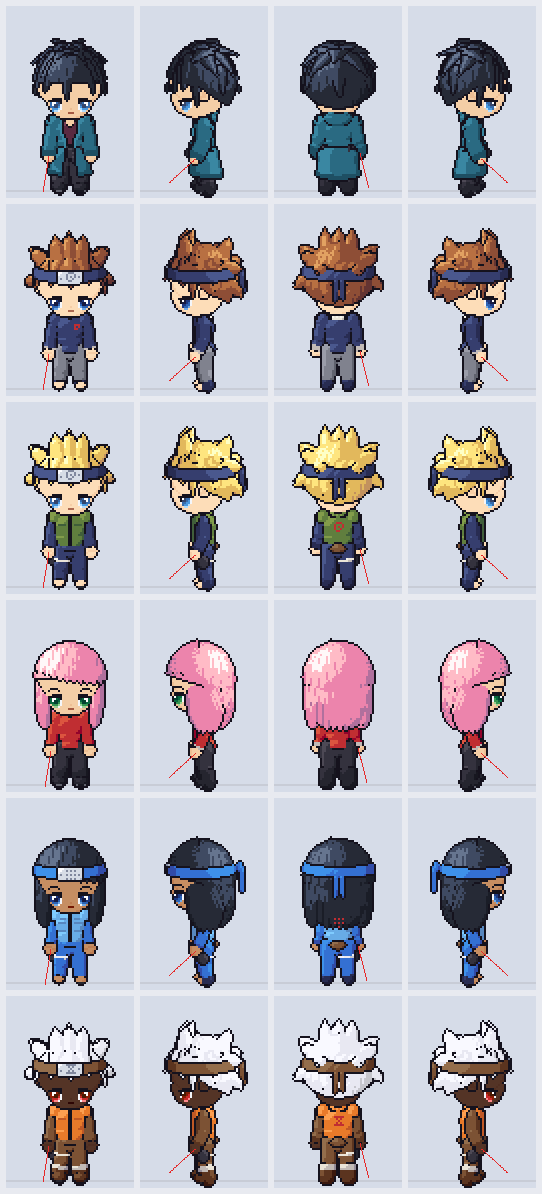
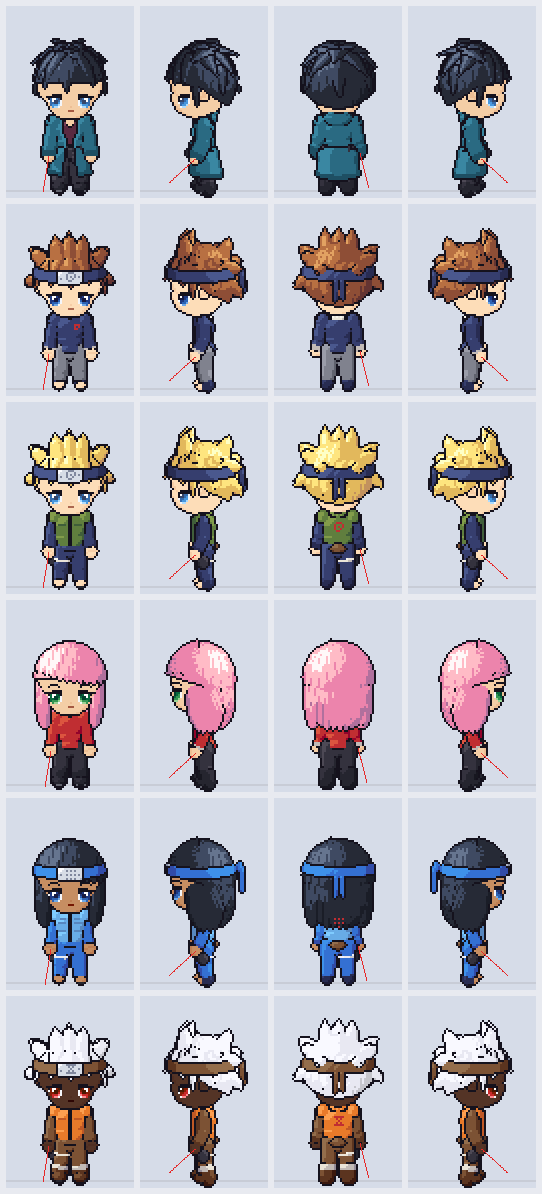
Boneco: olhos mais altos, franja curta e casaco de uma peça só nas costas
- Olhos, nariz e boca sobem para o meio do rosto (mais baixo parecia caído).
- Pontas da franja encurtadas para não cobrir os olhos.
- Casaco sem a costura no meio das costas: uma peça só, como a capa.

Claude-Session: https://claude.ai/code/session_013EwgXBRvGRJCaiRUvzAoiD

diff --git a/public/rigArt.js b/public/rigArt.js
@@ -478,7 +478,6 @@ function coatLayer(c) {
       clip: (q) => !(q[2] > 0 && Math.abs(q[0]) < w(q)),
       paint: (q) => {
         if (q[2] > 0 && Math.abs(q[0]) < w(q) + 1.15) return [null, 3];                 // lapela (dobra mais clara)
-        if (q[2] < -r[2] * 0.55 && Math.abs(q[0]) < 0.45) return [null, 1];             // costura das costas
         return null;
       },
     };
@@ -806,11 +805,11 @@ function hairShapes(style, hx, hy, hz) {
     const B = (a0, e0, a1, e1, out, w, extra = {}) => blades.push({ a0, e0, a1, e1, out, w, ...extra });
     // franja: poucas mechas largas, de comprimentos diferentes (a do meio desce entre os olhos; entre elas aparece a
     // testa); as de fora param acima do olho, para o perfil mostrar o rosto
-    B(-2, 68, -6, -18, 1.1, 5.6, { front: true, bend: 1.9 });
-    B(28, 64, 40, -12, 1.1, 5.2, { front: true, bend: 1.7 });
-    B(-32, 64, -42, -10, 1.1, 5.2, { front: true, bend: 1.7 });
-    B(54, 58, 62, -8, 1.3, 4.4, { front: true, bend: 1.5 });
-    B(-56, 58, -62, -6, 1.3, 4.4, { front: true, bend: 1.5 });
+    B(-2, 68, -6, -8, 1.1, 5.6, { front: true, bend: 1.9 });
+    B(28, 64, 40, -2, 1.1, 5.2, { front: true, bend: 1.7 });
+    B(-32, 64, -42, 0, 1.1, 5.2, { front: true, bend: 1.7 });
+    B(54, 58, 62, 2, 1.3, 4.4, { front: true, bend: 1.5 });
+    B(-56, 58, -62, 4, 1.3, 4.4, { front: true, bend: 1.5 });
     // lados: na frente da orelha, descendo até a bochecha, e as laterais abrindo para fora
     B(-76, 52, -84, -30, 1.3, 4.2, { front: true });
     B(78, 52, 86, -28, 1.3, 4.2, { front: true });
@@ -1272,7 +1271,7 @@ function face(buf, scene, col, S, look, pose, part) {
       }
     }
   };
-  const ey = -hy * 0.42, ex = hx * 0.5;
+  const ey = -hy * 0.32, ex = hx * 0.5;                                // olhos no meio do rosto (mais para baixo parecia caído)
   const mouth = (MOUTHS[pose.mouth] || MOUTHS.calma)[view];
   if (side) {
     // O olho de perto (o de longe some atrás do nariz); olhando para a direita, espelha o desenho.
@@ -1286,8 +1285,8 @@ function face(buf, scene, col, S, look, pose, part) {
     put(surf(-ex, ey), rows, false);
     put(surf(ex, ey), rows, true);
   } else {
-    put(surf(0, -hy * 0.8), mouth, false);
-    put(surf(hx * 0.05, -hy * 0.62), ['s'], false);                     // nariz: um pontinho de sombra
+    put(surf(0, -hy * 0.74), mouth, false);
+    put(surf(hx * 0.05, -hy * 0.55), ['s'], false);                     // nariz: um pontinho de sombra
   }
 }
 
